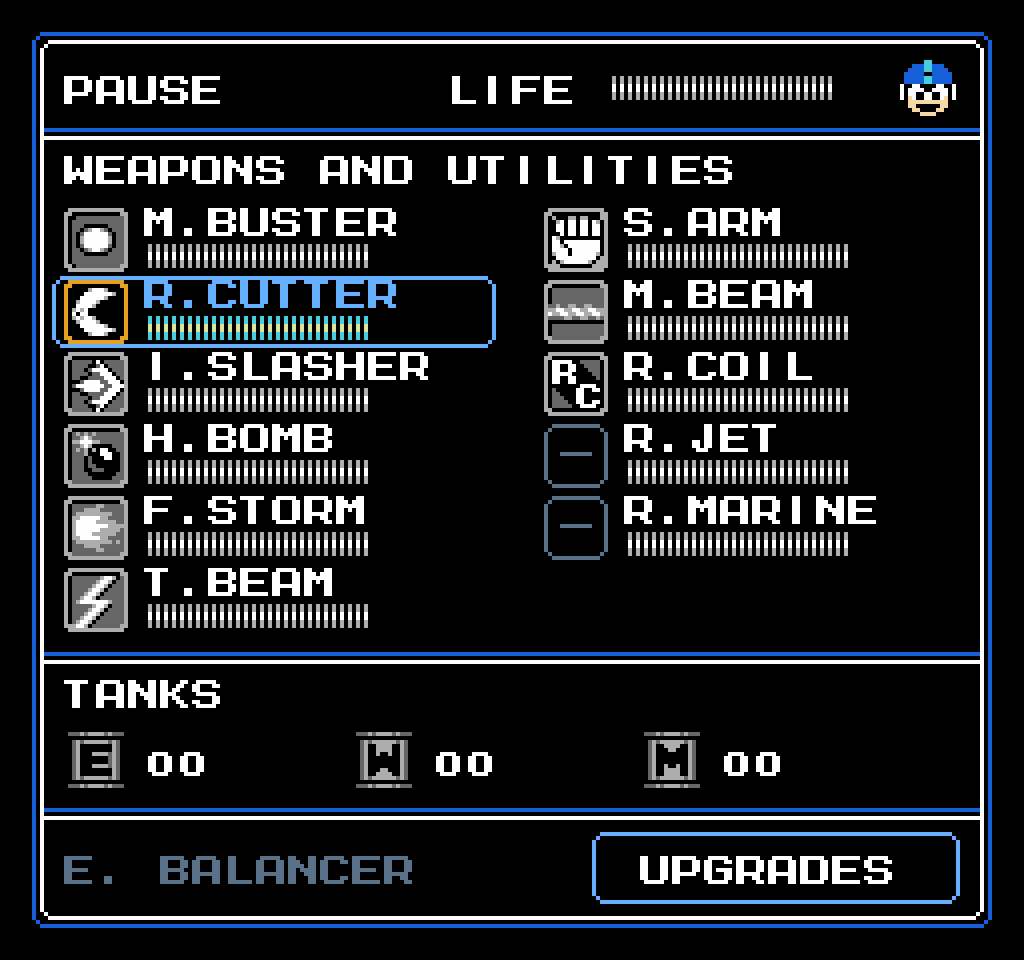
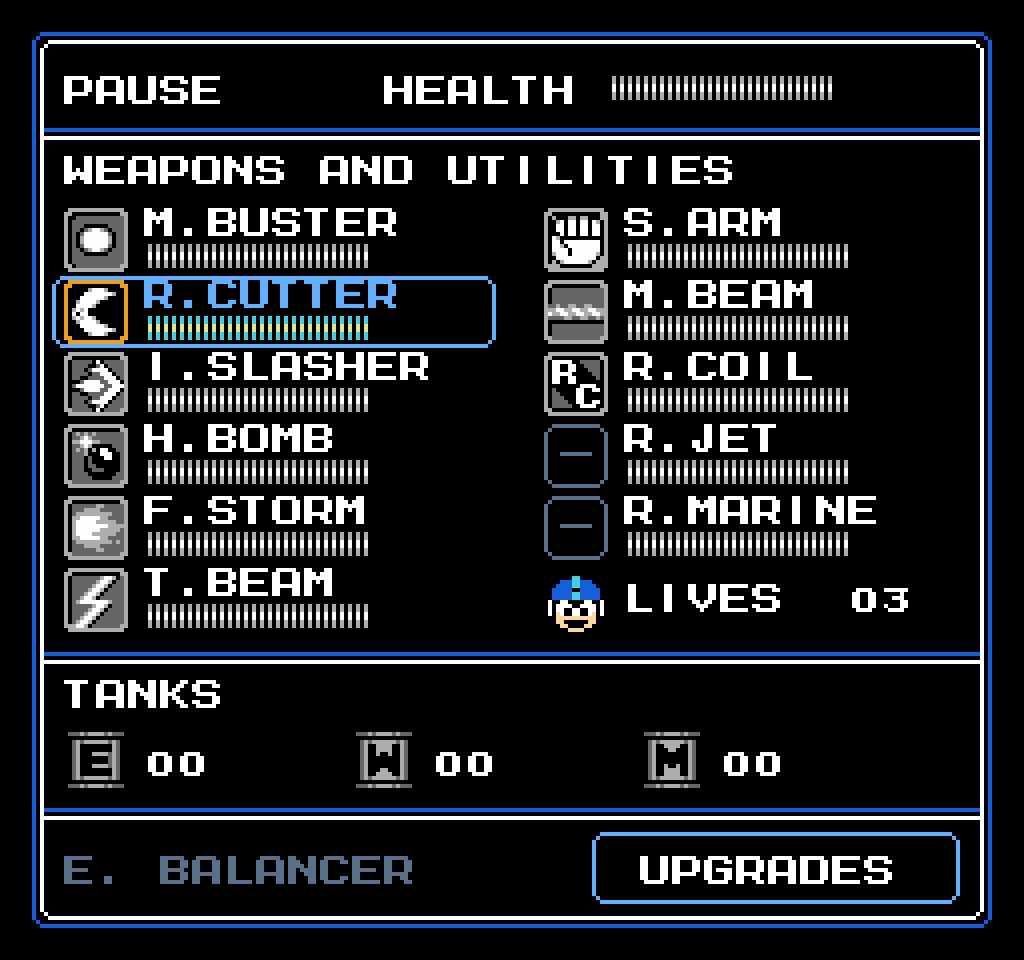
Separate lives counter from health in pause layout

diff --git a/docs/pause-menu-reference-observations.md b/docs/pause-menu-reference-observations.md
@@ -77,3 +77,7 @@ W tank now original M casing with8x8 letter interior only vertically flipped, ou
 ## Compact names — user correction
 
 User says design is good and requests no space after the period in weapon names: R.CUTTER, not R. CUTTER. V2 now uses M.BUSTER,R.CUTTER,I.SLASHER,H.BOMB,F.STORM,T.BEAM,S.ARM,M.BEAM,R.COIL,R.JET,R.MARINE in both snapshots and metadata. Bounds, icon pixel-identity and compact-name assertions PASS. All icon/bar/frame positions and other design unchanged. Earlier art-review sheets are historical and may retain spaced labels; current menu generator/metadata are authoritative for display labels. No GMS changes; Rush Jet/Marine placeholders still pending.
+
+## Separate lives counter requested
+
+User requests moving life icon (explicitly not health) and adding numbers. V2 original head moved from top-right to spare row below R.MARINE at136,142; LIVES label156,146 with03 example at212,146. Header renamed HEALTH at96,19, health bar152,18 unchanged. Tests assert relocated head exact source and native health bar bytes unchanged. Both selected snapshots/metadata updated.03 is illustrative, no starting-lives rule/gameplay implementation. Placement pending user review; spare slot now used for counter.

diff --git a/Assets/Mega Man/MM5/Pause Menu/Layout Review/README.md b/Assets/Mega Man/MM5/Pause Menu/Layout Review/README.md
@@ -35,3 +35,7 @@ Tests:11 unique/in-bounds labels, exactly one selected row, all seven icon pixel
 ### Compact-name correction
 
 User likes design and requests R.CUTTER instead of R. CUTTER. Both v2 snapshots/JSON now use compact names for all11 weapon/Rush entries. Only weapon label spacing changes; frame, bars, icons and coordinates unchanged. Generator asserts no period-space in entry labels. Run alternate snapshot with `node tools/rom-recovery/build-pause-layout-v2.mjs M.BUSTER` (default selects R.CUTTER).
+
+### Separate lives counter
+
+User requests moving the life (not health) icon and adding numerical lives. V2 relocates the original MM5 head icon to136,142 in the spare slot below R.MARINE, alongside LIVES and illustrative03. Header now says HEALTH to distinguish it; native health bar coordinates/pixels unchanged. Original head pixel identity and health bar identity asserted.03 is a layout example only, not a starting-lives decision or live game value. No lives/inventory/controller code implemented. Spare slot now occupied by lives display; future optional equipment forms require reflow/page as already noted. Both selection snapshots updated.
